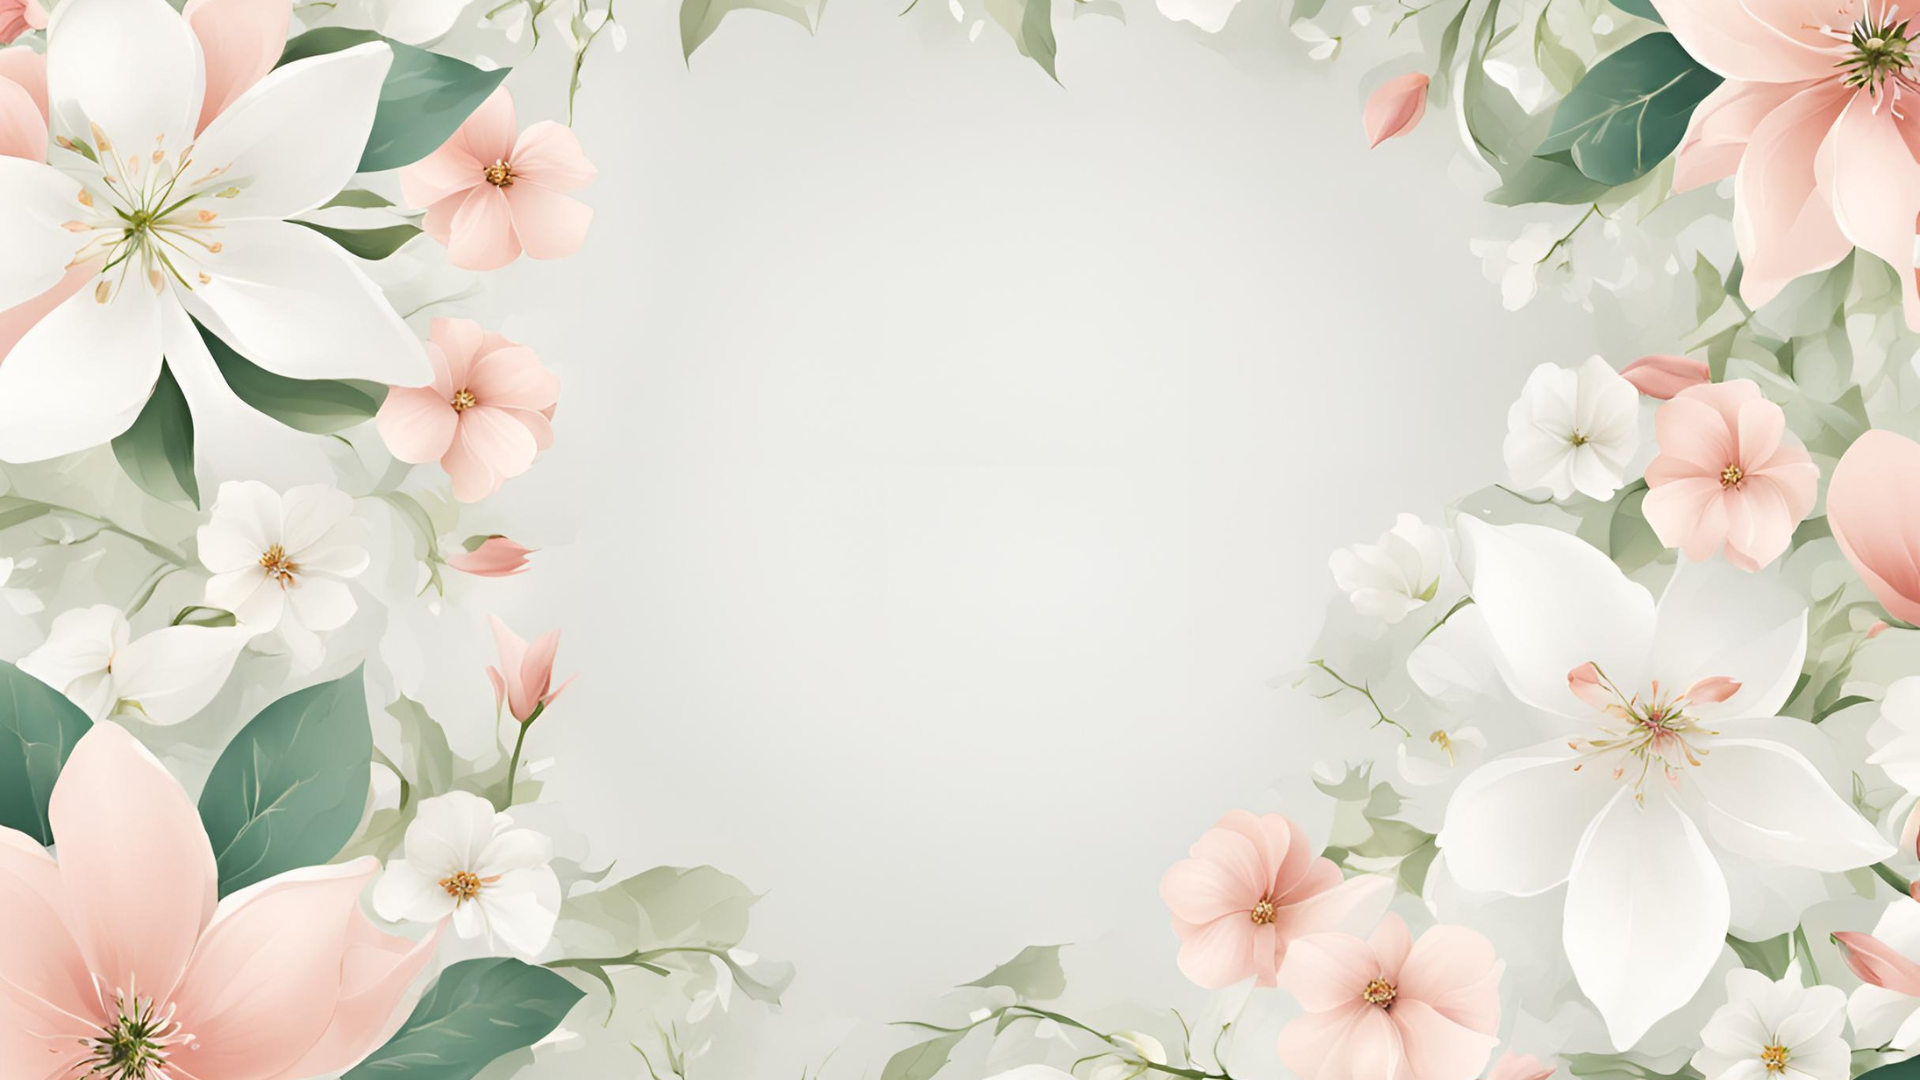
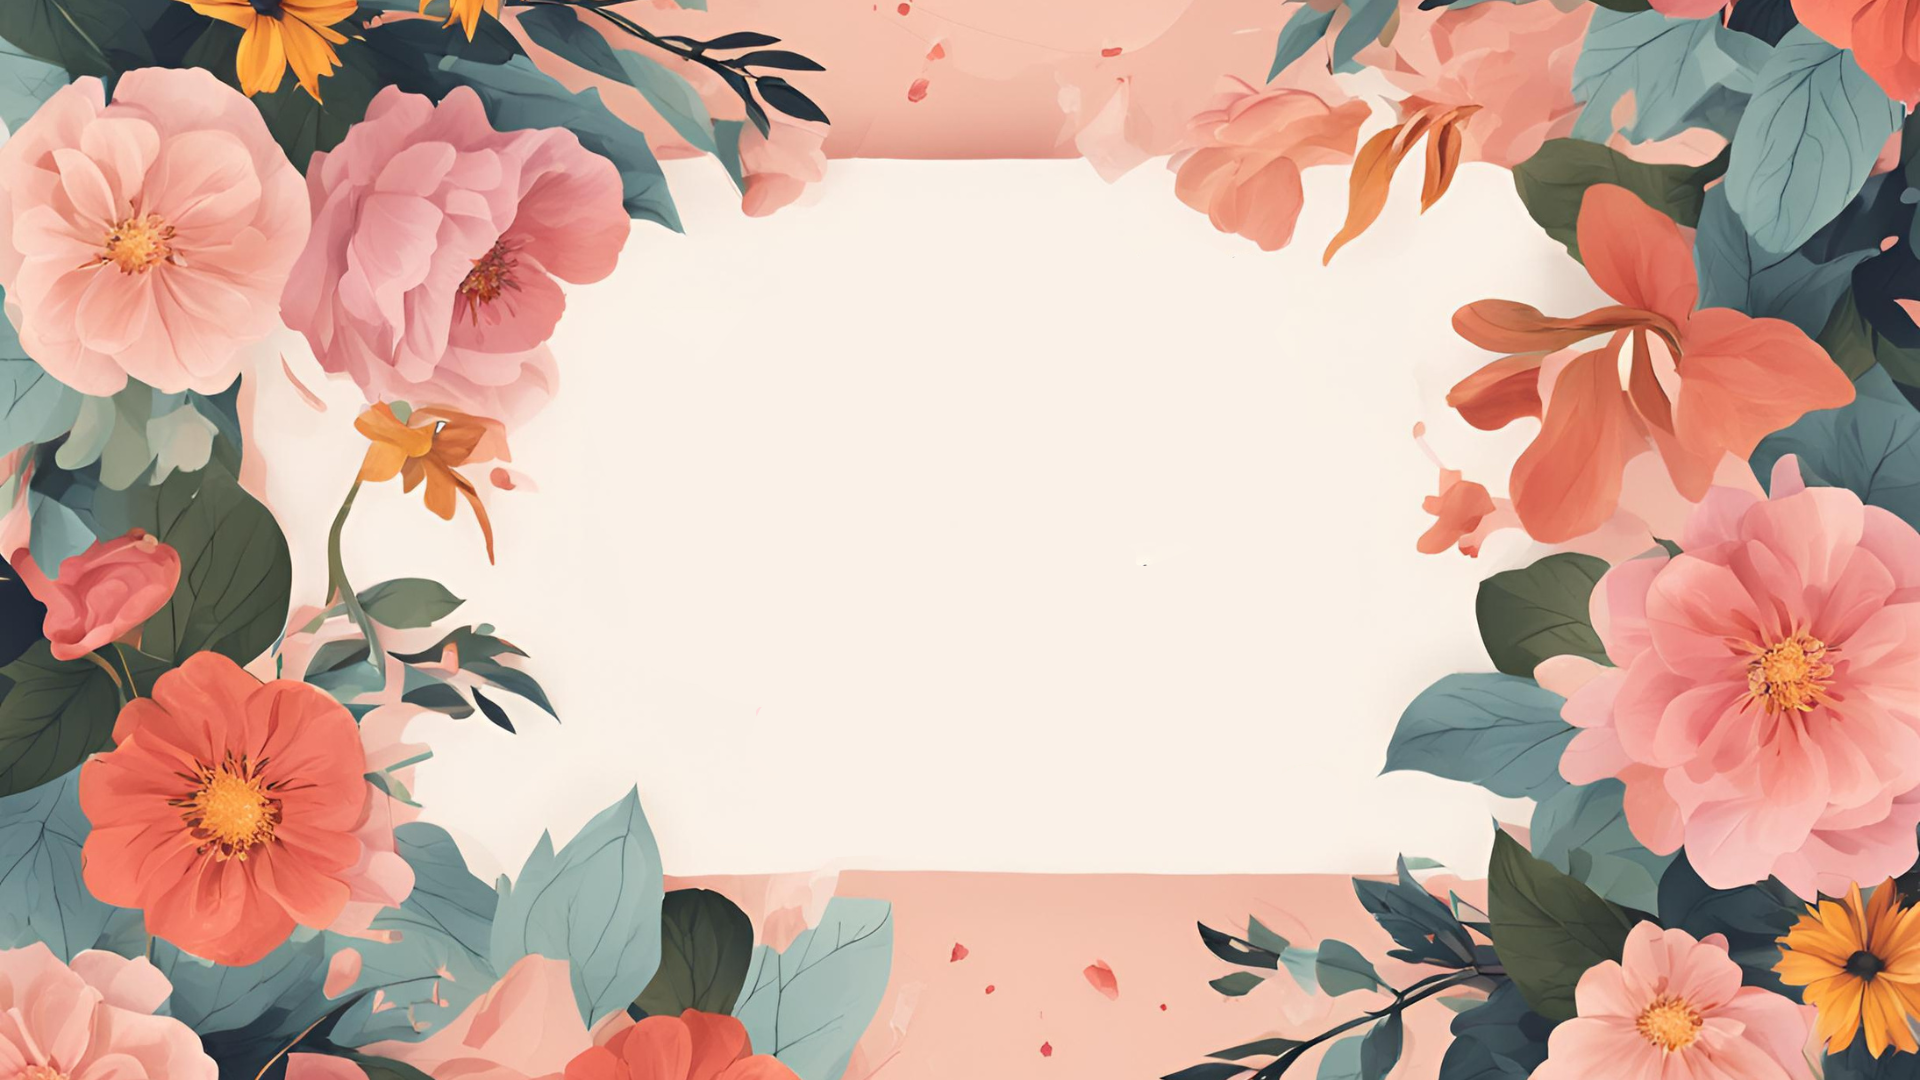
Versão com 'Quer namorar comigo?'

diff --git a/src/components/Button/Button.css b/src/components/Button/Button.css
@@ -1,9 +1,9 @@
 button {
     padding: 4px 24px;
-    color: #D70654;
+    color: #D40532;
     font-family: "Courgette", serif;
     font-size: 24px;
     background-color: #FFEFC8;
-    border: 1px solid #D70654;
+    border: 1px solid #D40532;
     border-radius: 4px;
 }

diff --git a/src/App.js b/src/App.js
@@ -14,7 +14,7 @@ function App() {
         position: "relative",
       }}
     >
-      <Propose question={"Você quer casar comigo?"} />
+      <Propose question={"Você quer namorar comigo?"} />
     </div>
   );
 }

diff --git a/src/pages/Propose/Propose.css b/src/pages/Propose/Propose.css
@@ -3,7 +3,7 @@
     flex-direction: column;
     align-items: center;
     justify-content: center;
-    padding-top: 12%;
+    padding-top: 15%;
     position: relative;
 }
 
